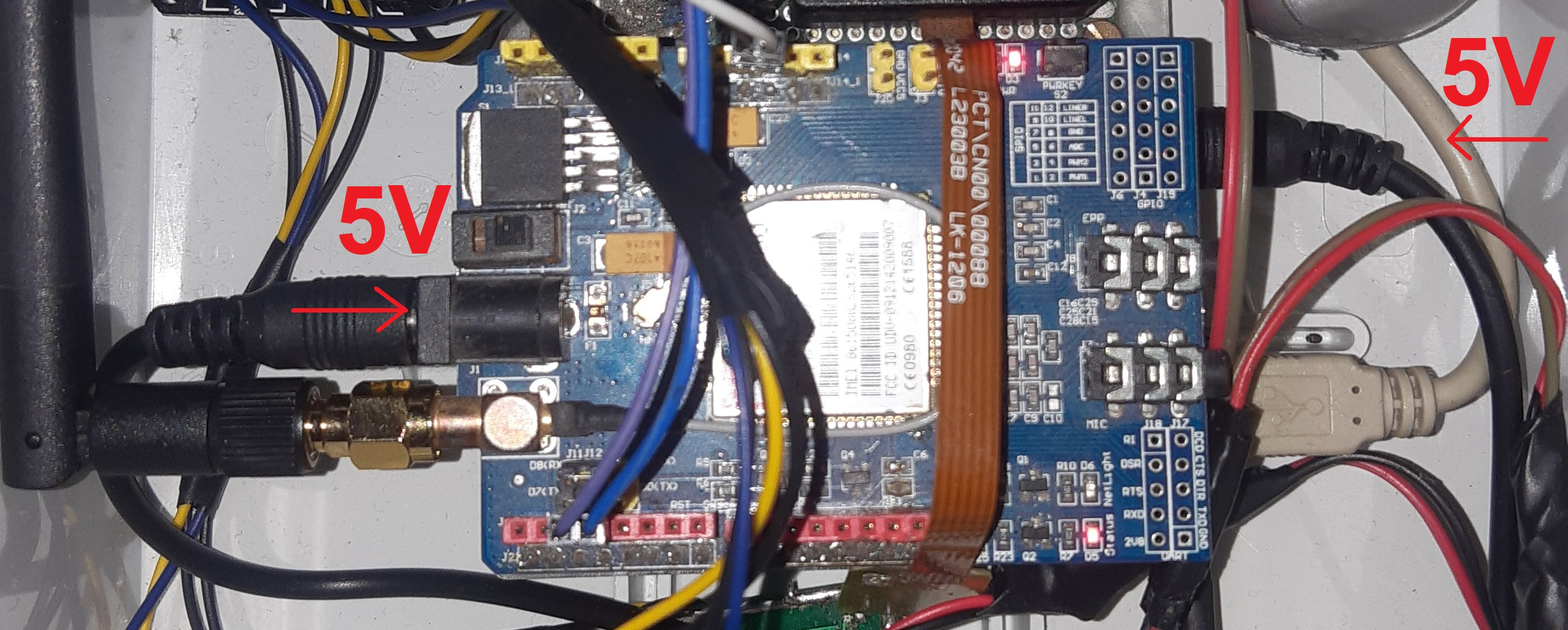
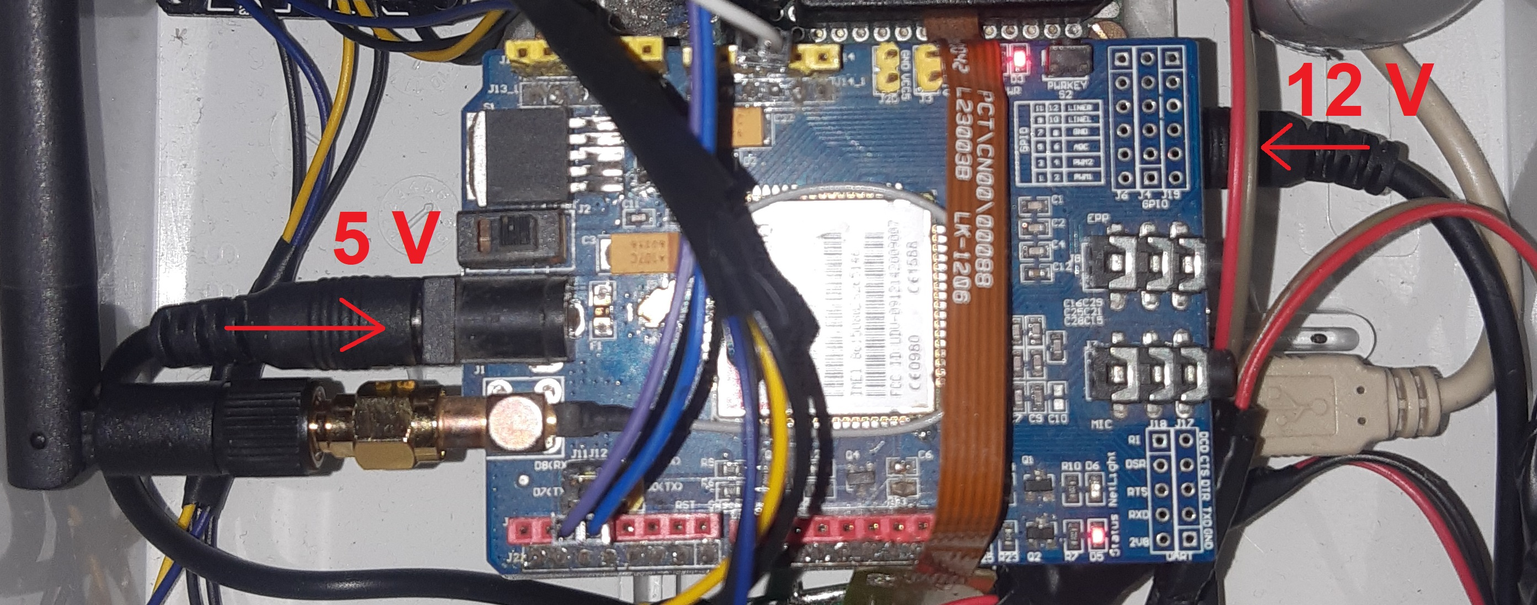
Arduino Uno power supply chnaged to 12 V

diff --git a/examples/SIM900_gate/docs/readme.md b/examples/SIM900_gate/docs/readme.md
@@ -29,10 +29,12 @@ Opening gates and door using mobile calls and SMS messages.
     <br><img src="10.jpg" alt="Gate controller physical buttons" width="50%" height="50%">
   </li>
   <li>Powering
-    <br>I had some problems with low power so I end up with 5V to Arduino shield and GSM shield and a 2A usb charger.
+    <br>I had some problems with low power so I end up with 5 Volt 2 Amp USB charger.
+	<br><img src="14.jpg" alt="Powering" width="50%" height="50%">
+	<br>Arduino shield si powered by 12 Volts (because of relays) and GSM shield with 5 Volts.
     <br><img src="12.jpg" alt="Powering" width="50%" height="50%">
     <br>I also replaced original antena.
-    <br>And added two capacitors (330uF and 100nF).
+    <br>And added two capacitors (330uF and 100nF) to GSM shield.
     <br><img src="11.jpg" alt="Powering Capacitors" width="20%" height="20%">
     <br>C=I*t/U
     <br>C=2A*0.0006s/5V (for 0.0006 second SIM900 module takes 2 Amps - from datasheet)
@@ -50,3 +52,4 @@ Opening gates and door using mobile calls and SMS messages.
 - https://industruino.com/page/wdt
 - https://electronics.stackexchange.com/questions/102293/i-need-to-replace-this-button-in-this-circuit-board-with-a-relay
 - https://www.laskakit.cz/user/related_files/gsm_manual_sim900_hardware_design_v2.pdf
+- https://www.instructables.com/Powering-Arduino-with-a-Battery/
